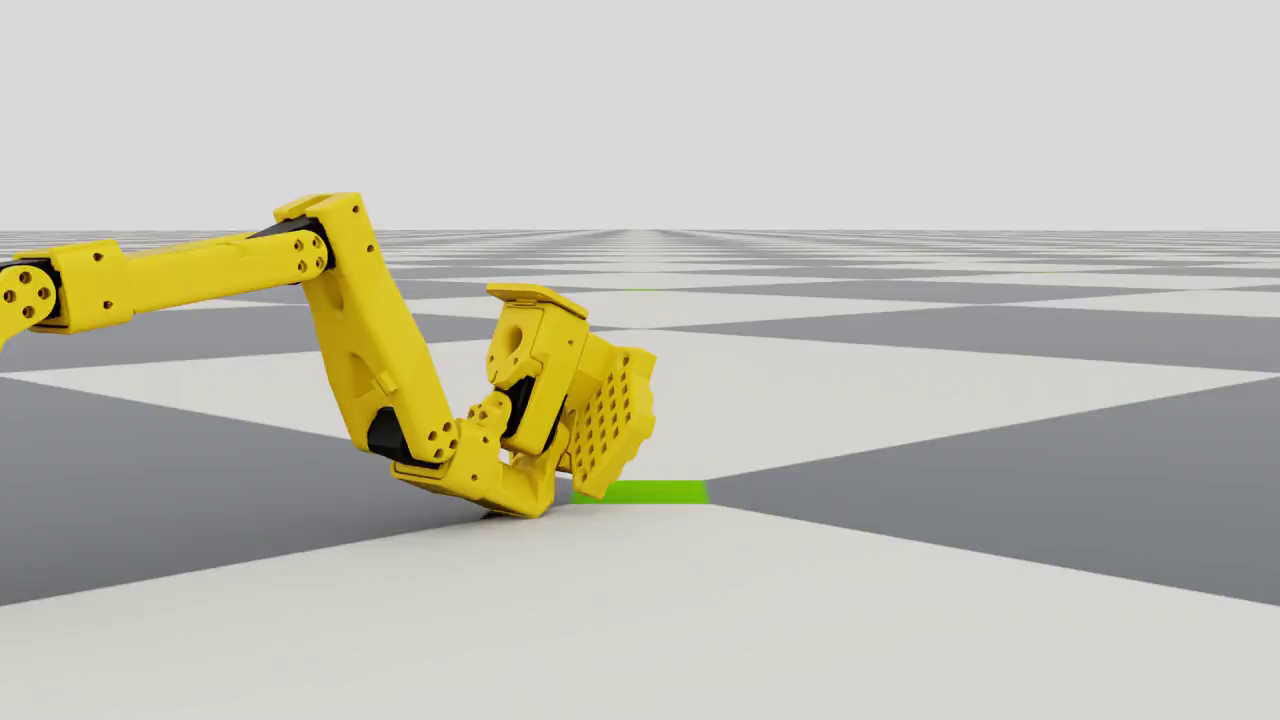
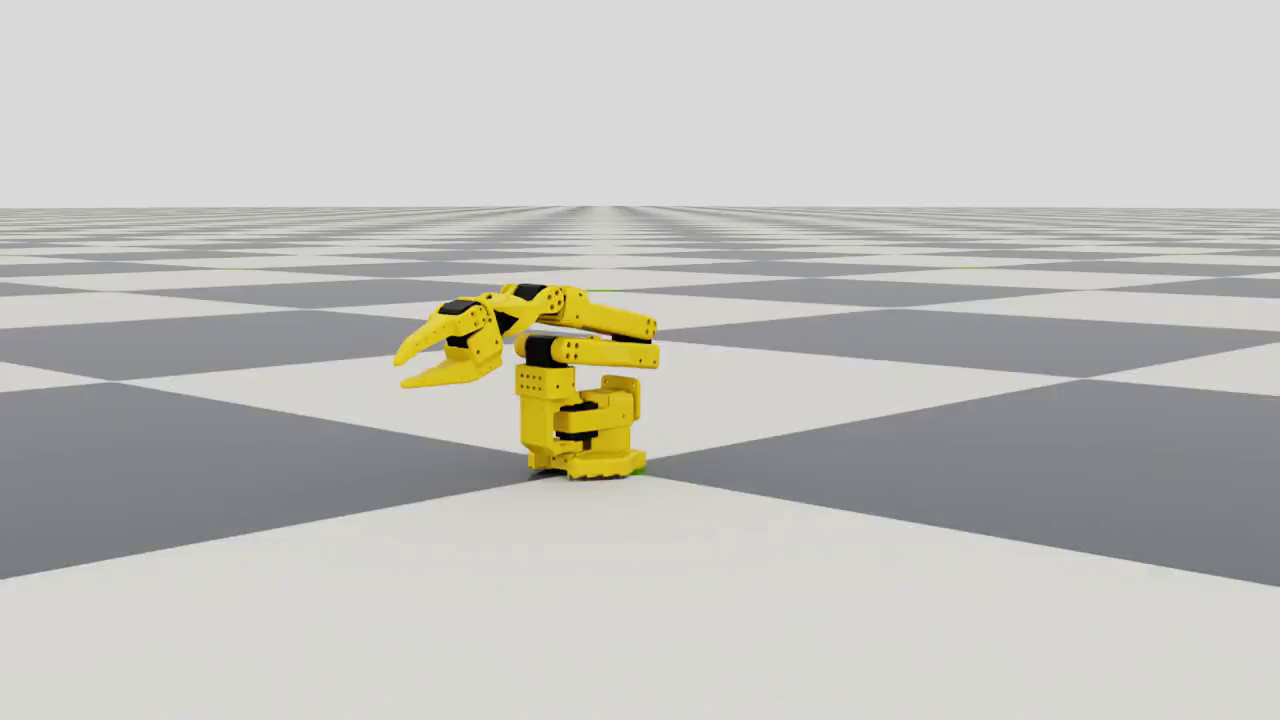
single folded start pose (urdf zero position, grounded spawn z measured by contact calibration); drop extended and on_side everywhere; add spawn-pose render scripts

Changed region(s): [[0.0, 0.2444, 1.0, 0.8556]]

diff --git a/scripts/render_spawn_poses.py b/scripts/render_spawn_poses.py
@@ -1,0 +1,182 @@
+# Render the spawn start pose(s) two ways:
+#   frozen  -- gravity zeroed right after env.reset(), before the first physics step: the frame
+#              shows the EXACTLY authored joint angles (no falling, no sag).
+#   settled -- gravity on, pose held as the action for a few seconds: what the robot looks
+#              like once the episode has settled (soft-PD sag under real gravity).
+#
+# The sensor video camera (source="sensor:video_camera") is the only camera that renders live
+# physics in headless mode (the KitViewport render_rgb_array path returns frozen frames).
+#
+# Usage:  source scripts/env.sh && python scripts/render_spawn_poses.py [calib]
+#         calib = measure each pose's contact-resting spawn z (gravity settle from a deep spawn)
+# Output: docs/start_poses/{<pose>.png, <pose>_settled.png} for every pose in START_POSES
+#         intermediate single-frame clips under logs/render_spawn_poses/
+
+import os
+import shutil
+import subprocess
+import sys
+from pathlib import Path
+
+REPO = Path(__file__).resolve().parents[1]
+sys.path.insert(0, str(REPO / "source" / "zombie_crawl"))
+os.environ["HEADLESS"] = "1"
+CALIB = "calib" in sys.argv[1:]
+POSE_ARGS = tuple(a for a in sys.argv[1:] if a != "calib") or ("folded",)
+sys.argv = [sys.argv[0]]
+
+import numpy as np
+import torch
+
+from isaaclab.app import AppLauncher
+
+al = AppLauncher(enable_cameras=True)
+app = al.app
+
+import omni.replicator.core  # noqa: F401
+
+from isaaclab.envs import ManagerBasedRLEnv
+from isaaclab.envs.utils.video_recorder_cfg import VideoRecorderCfg
+from isaaclab.sensors import CameraCfg
+from isaaclab.utils.math import create_rotation_matrix_from_view, quat_from_matrix
+
+from zombie_crawl.tasks.manager_based.crawl import video_flags
+
+video_flags.sensor_video_enabled = True
+
+from zombie_crawl.tasks.manager_based.crawl.crawl_env_cfg import CrawlEnvCfg, START_POSES
+
+WORK = REPO / "logs" / "render_spawn_poses"
+OUT = REPO / "docs" / "start_poses"
+MODE_STEPS = {"frozen": 30, "settled": 150}
+EYES = (1.0, -1.0, 0.26)
+TARGET = (0.05, 0.0, 0.11)
+
+
+def _one_hot(name: str) -> tuple[float, ...]:
+    return tuple(1.0 if n == name else 0.0 for n in START_POSES)
+
+
+def _hold_action(env: ManagerBasedRLEnv, asset, name: str) -> torch.Tensor:
+    q = torch.zeros(1, asset.num_joints, device=env.device)
+    for jn, jv in START_POSES[name]["joint_pos"].items():
+        q[0, asset.joint_names.index(jn)] = jv
+    lim = asset.data.soft_joint_pos_limits[0]
+    lo, hi = lim[:, 0], lim[:, 1]
+    mid = 0.5 * (lo + hi)
+    half = torch.clamp(0.5 * (hi - lo), min=1e-6)
+    return torch.clamp((q[0] - mid) / half, -1.0, 1.0).unsqueeze(0)
+
+
+def _make_cfg(name: str, output_dir: str | None):
+    cfg = CrawlEnvCfg()
+    cfg.scene.num_envs = 1
+    p = cfg.events.reset_start_pose.params
+    p["pose_weights"] = _one_hot(name)
+    p["joint_noise"] = 0.0
+    p["xy_offset"] = 0.0
+    p["yaw_range"] = (0.0, 0.0)
+    if output_dir is None:
+        cfg.video_recorders = []
+    return cfg
+
+
+def render_pose(name: str, mode: str) -> Path:
+    clip_dir = WORK / mode / name
+    if clip_dir.exists():
+        shutil.rmtree(clip_dir)  # recorder continues numbering over old clips; start clean
+    cfg = _make_cfg(name, str(clip_dir))
+    r_v2w = create_rotation_matrix_from_view(
+        torch.tensor(EYES).unsqueeze(0), torch.tensor(TARGET).unsqueeze(0), up_axis="Z"
+    )
+    quat = quat_from_matrix(r_v2w)[0]
+    cfg.scene.video_camera.offset = CameraCfg.OffsetCfg(pos=EYES, rot=quat, convention="opengl")
+    cfg.video_recorders = [
+        VideoRecorderCfg(
+            source="sensor:video_camera",
+            output_dir=str(clip_dir),
+            video_length=40,
+            video_interval=1,
+            step_offset=0,
+            fps=20,
+            output_filename_prefix="z",
+            keep_last_n_clips=None,
+        )
+    ]
+    env = ManagerBasedRLEnv(cfg=cfg, render_mode=None)
+    asset = env.scene["robot"]
+    env.reset()
+    if mode == "frozen":
+        # zero gravity before the first physics step: authored pose stays exact, nothing falls
+        from pxr import UsdPhysics
+
+        UsdPhysics.Scene(
+            env.sim.stage.GetPrimAtPath(env.sim.cfg.physics_prim_path)
+        ).GetGravityMagnitudeAttr().Set(0.0)
+    hold = _hold_action(env, asset, name)
+    for _ in range(MODE_STEPS[mode]):
+        env.step(hold)
+    z = asset.data.root_pos_w[0].cpu().numpy()
+    print(f"{mode} {name}: base z after {MODE_STEPS[mode]} steps: {z}", flush=True)
+    clip = clip_dir / f"z_{MODE_STEPS[mode] - 1:04d}.mp4"
+    env.close()
+    return clip
+
+
+def calib_pose(name: str) -> None:
+    """Measure the contact-resting base z: spawn deep (z=-0.03) WITH gravity (the only thing
+    that damps the ejection into a real rest), hold the authored pose, average base z at the end."""
+    cfg = _make_cfg(name, None)
+    env = ManagerBasedRLEnv(cfg=cfg, render_mode=None)
+    asset = env.scene["robot"]
+    env.reset()
+    q = torch.zeros(1, asset.num_joints, device=env.device)
+    for jn, jv in START_POSES[name]["joint_pos"].items():
+        q[0, asset.joint_names.index(jn)] = jv
+    pose = torch.zeros(1, 7, device=env.device)
+    pose[0, 2] = -0.03
+    pose[0, 6] = 1.0
+    env_ids = torch.arange(1, device=env.device)
+    asset.write_root_pose_to_sim_index(root_pose=pose, env_ids=env_ids)
+    asset.write_joint_position_to_sim_index(position=q, env_ids=env_ids)
+    asset.write_root_velocity_to_sim_index(
+        root_velocity=torch.zeros(1, 6, device=env.device), env_ids=env_ids
+    )
+    asset.write_joint_velocity_to_sim_index(velocity=torch.zeros_like(q), env_ids=env_ids)
+    hold = _hold_action(env, asset, name)
+    zs = []
+    for k in range(400):
+        env.step(hold)
+        if k >= 300:
+            zs.append(asset.data.root_pos_w[0, 2].item())
+    print(
+        f"calib {name}: resting z = {np.mean(zs):.4f} (spread {np.max(zs) - np.min(zs):.4f})",
+        flush=True,
+    )
+    env.close()
+
+
+def last_frame(clip: Path, png: Path) -> None:
+    subprocess.run(
+        ["ffmpeg", "-y", "-loglevel", "error", "-i", str(clip), "-frames:v", "1", str(png)],
+        check=True,
+    )
+
+
+def main() -> None:
+    WORK.mkdir(parents=True, exist_ok=True)
+    OUT.mkdir(parents=True, exist_ok=True)
+    if CALIB:
+        for name in POSE_ARGS:
+            calib_pose(name)
+        app.close()
+        return
+    for mode, suffix in (("frozen", ""), ("settled", "_settled")):
+        for name in POSE_ARGS:
+            clip = render_pose(name, mode)
+            last_frame(clip, OUT / f"{name}{suffix}.png")
+    app.close()
+
+
+if __name__ == "__main__":
+    main()

diff --git a/scripts/render_urdf_zero.py b/scripts/render_urdf_zero.py
@@ -1,0 +1,109 @@
+# Render the robot in its URDF zero position (all joints at 0; the URDF defines no <default>),
+# frozen (zero-g, exact authored angles) and settled (gravity on, PD holding zeros).
+# Usage: source scripts/env.sh && python scripts/render_urdf_zero.py
+# Output: docs/start_poses/urdf_zero.png, docs/start_poses/urdf_zero_settled.png
+
+import os
+import shutil
+import subprocess
+import sys
+from pathlib import Path
+
+REPO = Path(__file__).resolve().parents[1]
+sys.path.insert(0, str(REPO / "source" / "zombie_crawl"))
+os.environ["HEADLESS"] = "1"
+sys.argv = ["render_urdf_zero"]
+
+import torch
+
+from isaaclab.app import AppLauncher
+
+al = AppLauncher(enable_cameras=True)
+app = al.app
+
+import omni.replicator.core  # noqa: F401
+
+from isaaclab.envs import ManagerBasedRLEnv
+from isaaclab.envs.utils.video_recorder_cfg import VideoRecorderCfg
+from isaaclab.sensors import CameraCfg
+from isaaclab.utils.math import create_rotation_matrix_from_view, quat_from_matrix
+
+from zombie_crawl.tasks.manager_based.crawl import video_flags
+
+video_flags.sensor_video_enabled = True
+
+from zombie_crawl.tasks.manager_based.crawl.crawl_env_cfg import CrawlEnvCfg
+
+WORK = REPO / "logs" / "render_spawn_poses"
+OUT = REPO / "docs" / "start_poses"
+EYES = (1.0, -1.0, 0.26)
+TARGET = (0.05, 0.0, 0.11)
+MODE_STEPS = {"frozen": 30, "settled": 150}
+
+
+def render(mode: str) -> Path:
+    clip_dir = WORK / mode / "urdf_zero"
+    if clip_dir.exists():
+        shutil.rmtree(clip_dir)
+    cfg = CrawlEnvCfg()
+    cfg.scene.num_envs = 1
+    p = cfg.events.reset_start_pose.params
+    p["joint_noise"] = 0.0
+    p["xy_offset"] = 0.0
+    p["yaw_range"] = (0.0, 0.0)
+    r_v2w = create_rotation_matrix_from_view(
+        torch.tensor(EYES).unsqueeze(0), torch.tensor(TARGET).unsqueeze(0), up_axis="Z"
+    )
+    quat = quat_from_matrix(r_v2w)[0]
+    cfg.scene.video_camera.offset = CameraCfg.OffsetCfg(pos=EYES, rot=quat, convention="opengl")
+    cfg.video_recorders = [
+        VideoRecorderCfg(
+            source="sensor:video_camera",
+            output_dir=str(clip_dir),
+            video_length=40,
+            video_interval=1,
+            step_offset=0,
+            fps=20,
+            output_filename_prefix="z",
+            keep_last_n_clips=None,
+        )
+    ]
+    env = ManagerBasedRLEnv(cfg=cfg, render_mode=None)
+    asset = env.scene["robot"]
+    env.reset()
+    q = torch.zeros(1, asset.num_joints, device=env.device)  # URDF zero position
+    asset.write_joint_position_to_sim_index(
+        position=q, env_ids=torch.arange(1, device=env.device)
+    )
+    if mode == "frozen":
+        from pxr import UsdPhysics
+
+        UsdPhysics.Scene(
+            env.sim.stage.GetPrimAtPath(env.sim.cfg.physics_prim_path)
+        ).GetGravityMagnitudeAttr().Set(0.0)
+    lim = asset.data.soft_joint_pos_limits[0]
+    lo, hi = lim[:, 0], lim[:, 1]
+    mid = 0.5 * (lo + hi)
+    half = torch.clamp(0.5 * (hi - lo), min=1e-6)
+    hold = torch.clamp((q[0] - mid) / half, -1.0, 1.0).unsqueeze(0)
+    for _ in range(MODE_STEPS[mode]):
+        env.step(hold)
+    env.close()
+    return clip_dir / f"z_{MODE_STEPS[mode] - 1:04d}.mp4"
+
+
+def main() -> None:
+    OUT.mkdir(parents=True, exist_ok=True)
+    for mode, suffix in (("frozen", ""), ("settled", "_settled")):
+        clip = render(mode)
+        png = OUT / f"urdf_zero{suffix}.png"
+        subprocess.run(
+            ["ffmpeg", "-y", "-loglevel", "error", "-i", str(clip), "-frames:v", "1", str(png)],
+            check=True,
+        )
+        print("wrote", png)
+    app.close()
+
+
+if __name__ == "__main__":
+    main()

diff --git a/source/zombie_crawl/zombie_crawl/tasks/manager_based/crawl/crawl_env_cfg.py b/source/zombie_crawl/zombie_crawl/tasks/manager_based/crawl/crawl_env_cfg.py
@@ -64,40 +64,18 @@ from zombie_crawl.tasks.manager_based.crawl import video_flags
 ##
 
 START_POSES: dict[str, dict] = {
+    # deep crouch on the jaws: URDF zero position (all joints 0, gripper closed);
+    # spawn z = measured contact-resting height so the robot touches the ground at reset
     "folded": {
-        "pos": (0.0, 0.0, 0.005),
+        "pos": (0.0, 0.0, 0.0037),
         "rot": (0.0, 0.0, 0.0),
         "joint_pos": {
             "shoulder_pan": 0.0,
-            "shoulder_lift": 1.2,
-            "elbow_flex": -1.6,
-            "wrist_flex": 0.3,
+            "shoulder_lift": 0.0,
+            "elbow_flex": 0.0,
+            "wrist_flex": 0.0,
             "wrist_roll": 0.0,
-            "gripper": 0.3,
-        },
-    },
-    "extended": {
-        "pos": (0.0, 0.0, 0.005),
-        "rot": (0.0, 0.0, 0.0),
-        "joint_pos": {
-            "shoulder_pan": 0.0,
-            "shoulder_lift": 0.35,
-            "elbow_flex": -0.35,
-            "wrist_flex": 0.2,
-            "wrist_roll": 0.0,
-            "gripper": 0.3,
-        },
-    },
-    "on_side": {
-        "pos": (0.0, 0.0, 0.048),
-        "rot": (math.pi / 2.0, 0.0, 0.0),
-        "joint_pos": {
-            "shoulder_pan": 0.0,
-            "shoulder_lift": 1.0,
-            "elbow_flex": -1.4,
-            "wrist_flex": 0.3,
-            "wrist_roll": 0.0,
-            "gripper": 0.3,
+            "gripper": 0.0,
         },
     },
 }
@@ -282,10 +260,8 @@ class CrawlEventsCfg:
         mode="reset",
         params={
             "poses": START_POSES,
-            # "on_side" (index 2) starts the robot tipped over and made reorientation the
-            # dominant early task (yaw_error stayed ~-0.5 for the whole run); drop it and
-            # weight "folded" 2:1 over "extended"
-            "pose_weights": (2.0, 1.0, 0.0),
+            # spawn from "folded" only (more poses may be added later)
+            "pose_weights": (1.0,),
             "joint_noise": 0.1,
             "xy_offset": 0.05,
             # +-pi/2 instead of +-pi: a 180-degree turn-off is too costly early in training
@@ -616,7 +592,7 @@ class CrawlEnvCfg(ManagerBasedRLEnvCfg):
         # freeze the friction randomization at the default (multiplier 1.0)
         self.events.randomize_ground_friction.params["friction_range"] = (1.0, 1.0)
         # single, deterministic start pose
-        self.events.reset_start_pose.params["pose_weights"] = (1.0, 0.0, 0.0)
+        self.events.reset_start_pose.params["pose_weights"] = (1.0,)
         self.events.reset_start_pose.params["joint_noise"] = 0.0
         self.events.reset_start_pose.params["xy_offset"] = 0.0
         self.events.reset_start_pose.params["yaw_range"] = (0.0, 0.0)
@@ -649,7 +625,7 @@ class CrawlPlayEnvCfg(CrawlEnvCfg):
         # freeze the friction randomization at the default (multiplier 1.0)
         self.events.randomize_ground_friction.params["friction_range"] = (1.0, 1.0)
         # single, deterministic start pose
-        self.events.reset_start_pose.params["pose_weights"] = (1.0, 0.0, 0.0)
+        self.events.reset_start_pose.params["pose_weights"] = (1.0,)
         self.events.reset_start_pose.params["joint_noise"] = 0.0
         self.events.reset_start_pose.params["xy_offset"] = 0.0
         self.events.reset_start_pose.params["yaw_range"] = (0.0, 0.0)

diff --git a/README.md b/README.md
@@ -247,7 +247,7 @@ python scripts/play.py --task Zombie-Crawl-SO100-Play-v0 \
 
 - `--preset servo` (2.9 N·m, real servo) vs `--preset ideal` (10 N·m, separates task-design
   from torque limits).
-- `--pose folded|extended|on_side`.
+- `--pose folded` (the only start pose currently defined in `START_POSES`).
 - `--headless` runs without a GUI window (on `train.py`/`play.py` and the test helpers).
   Isaac Lab 3.0 dropped `--headless` from the launcher CLI — headless is the default when
   no visualizer is requested — so this repo re-adds the flag as a compatibility shim that
